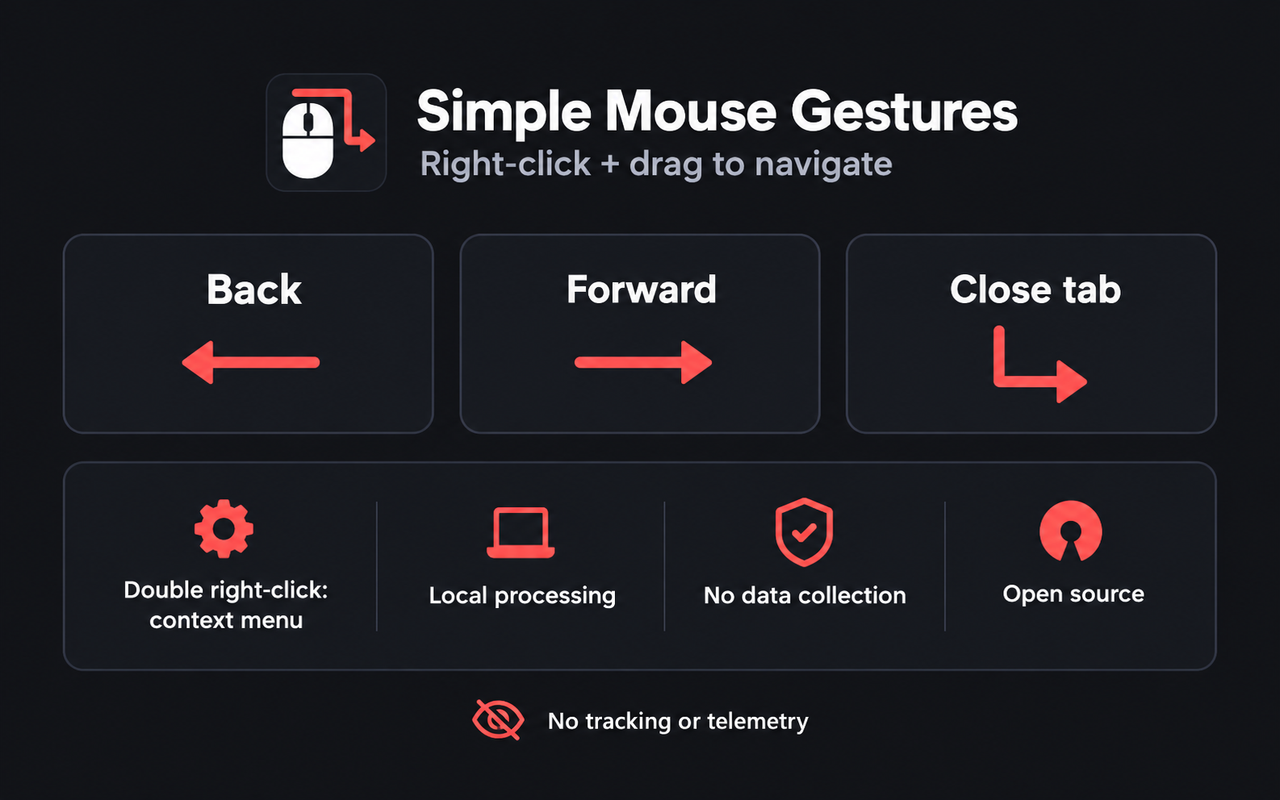
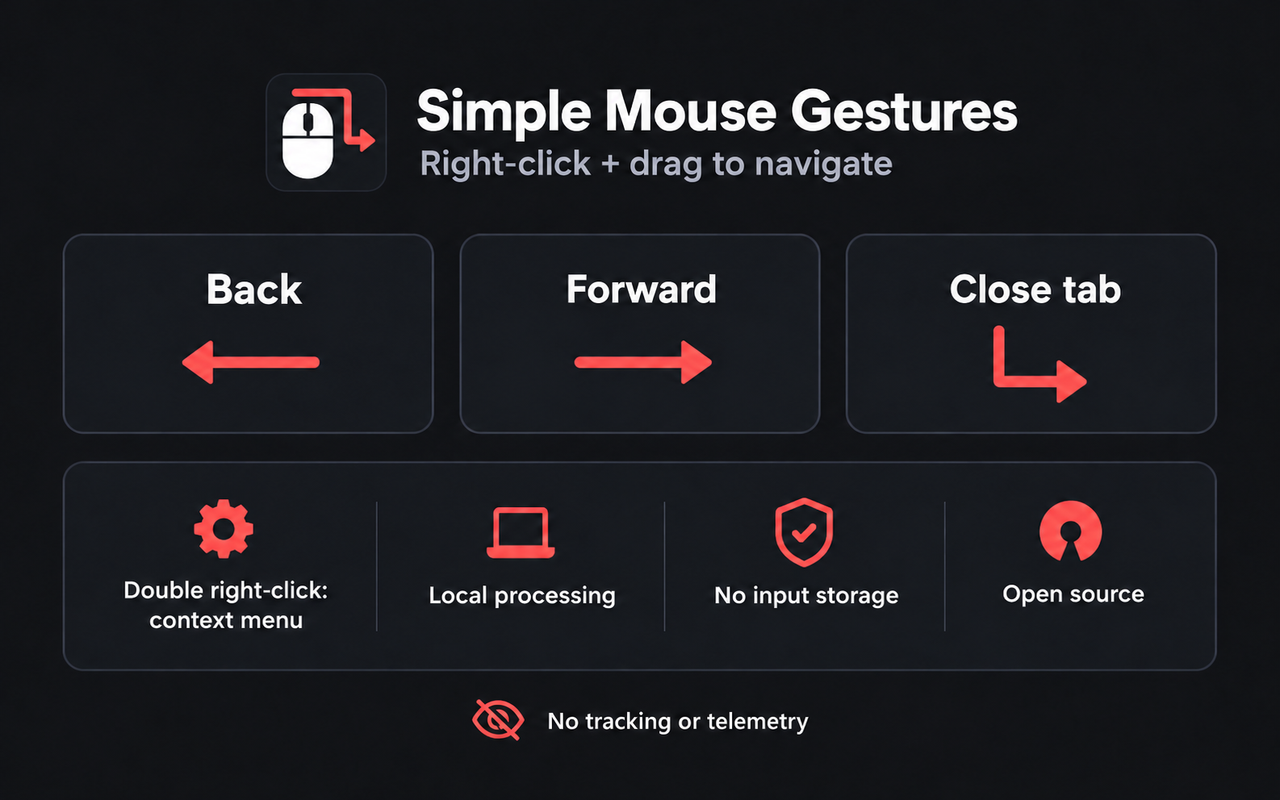
Clarify transient local input handling in store disclosures
Describe gesture-related user activity accurately, including on-device mouse coordinates and Escape cancellation, without broad no-data-collection claims. Align the privacy policy, four store descriptions, and screenshot with the store's data-use disclosure.

diff --git a/store/privacy-policy.html b/store/privacy-policy.html
@@ -17,11 +17,15 @@
   <p class="date">Last updated: 2026-10-13</p>
 
   <h2>Local processing</h2>
-  <p>Simple Mouse Gestures recognizes mouse gestures locally in your browser. Mouse coordinates, timing, and gesture directions are processed temporarily in memory. This input is not saved or sent to a server.</p>
+  <p>Simple Mouse Gestures temporarily accesses and uses user-activity input locally in your browser: gesture-related mouse coordinates, button events, timing, and directions, plus Escape input to cancel a gesture. This processing provides navigation, tab closing, the gesture trail, and double-right-click menu behavior. It does not record the text you type or perform general keystroke logging.</p>
+  <p>This input is handled in memory only. It is not logged, written to persistent storage, or transmitted outside your browser. Temporary interaction state is replaced or cleared during gesture processing and is lost when the page or browser worker closes.</p>
 
-  <h2>Data collection and transmission</h2>
-  <p>The extension does not collect or persist personal data or browsing history, and does not use cookies, analytics, telemetry, advertising, remote code, or third-party network services. It does not share or sell user data.</p>
+  <h2>Data use and transmission</h2>
+  <p>The extension does not store input or browsing history, and does not use cookies, activity tracking, analytics, telemetry, advertising, remote code, or third-party network services. It does not share or sell the input it processes. The developer and third parties do not receive or have access to this input through the extension.</p>
   <p>The extension makes no requests to external servers. Back and forward gestures use normal browser navigation, which may cause the websites you visit to load content as usual.</p>
+
+  <h2>Limited use</h2>
+  <p>User-activity input is used solely for the disclosed mouse-gesture functionality, in accordance with the Chrome Web Store User Data Policy, including its Limited Use requirements. It is never used for advertising, profiling, creditworthiness, or unrelated purposes. The developer does not receive, access, or manually read this input.</p>
 
   <h2>Website access and permissions</h2>
   <p>The extension declares a content script for all supported website URLs and matching embedded frames. This site access lets it listen for mouse events and draw a gesture trail and feedback in the page DOM. Chrome may display a warning that the extension can read and change website data. You can restrict site access through Chrome's extension settings.</p>

diff --git a/README.md b/README.md
@@ -1,8 +1,8 @@
 # Simple Mouse Gestures
 
-간단하고 개인정보를 수집하지 않는 Chrome 마우스 제스처 확장프로그램입니다.
+마우스 입력을 기기 안에서만 일시적으로 처리하며 저장하거나 추적하지 않는 Chrome 제스처 확장프로그램입니다.
 
-A small Chrome extension for mouse gesture navigation, with no analytics, remote code, or data collection.
+A small Chrome extension for mouse gesture navigation. Gesture input is processed temporarily in your browser, without input storage, tracking, analytics, or external transmission.
 
 ## Gestures | 제스처
 
@@ -23,12 +23,12 @@ A gesture cancels after 3 seconds without movement, or after 30 seconds in total
 
 ## Privacy and permissions | 개인정보와 권한
 
-- **Local processing:** Mouse coordinates and gesture directions are held temporarily in memory to recognize gestures. The extension does not store browsing history, mouse input, or personal data, and has no analytics or telemetry.
+- **Local input handling:** Gesture-related mouse coordinates, timing, and directions, plus Escape cancellation input, are processed temporarily in memory for navigation and the double-right-click menu. This is local user-activity handling. Input is not logged or written to persistent storage, and the extension has no browsing-history storage, tracking, analytics, or telemetry.
 - **No external data transmission:** There are no extension requests to external servers, remote scripts, or third-party dependencies. Back/forward navigation may load websites normally, just like browser navigation buttons.
 - **Page access:** The content script runs on permitted websites and matching frames (`<all_urls>`) so it can receive mouse input and draw the trail and feedback in the page DOM. Chrome may warn that the extension can read and change website data. An empty API `permissions` list does not remove this website access.
 - **No `tabs` permission:** Closing the sending tab uses `chrome.tabs.remove()` without requesting access to sensitive tab metadata. No storage, cookies, history, or network interception API permissions are requested.
 
-마우스 위치와 인식 결과는 메모리에서 일시적으로 처리하며 저장하거나 외부로 보내지 않습니다. 웹 페이지의 입력을 감지하고 궤적을 표시하기 위해 사이트 접근 권한을 사용하므로 Chrome의 사이트 데이터 접근 경고가 표시될 수 있습니다. 탭을 닫는 데 `tabs` 권한은 필요하지 않으며 요청하지 않습니다. 뒤로가기·앞으로가기에 따른 웹사이트 자체의 통신은 일반 브라우저 탐색과 같습니다.
+제스처용 마우스 위치·시간·방향과 Escape 취소 입력은 탐색과 더블 우클릭 메뉴를 위해 메모리에서 일시적으로 처리합니다. 이 로컬 사용자 활동 처리는 입력 기록을 저장하거나 외부로 보내지 않습니다. 웹 페이지의 입력을 감지하고 궤적을 표시하기 위해 사이트 접근 권한을 사용하므로 Chrome의 사이트 데이터 접근 경고가 표시될 수 있습니다. 탭을 닫는 데 `tabs` 권한은 필요하지 않으며 요청하지 않습니다. 뒤로가기·앞으로가기에 따른 웹사이트 자체의 통신은 일반 브라우저 탐색과 같습니다.
 
 Review the source: [content.js](content.js), [recognizer.js](recognizer.js), [background.js](background.js), [manifest.json](manifest.json). See the [privacy policy](store/privacy-policy.html).
 
